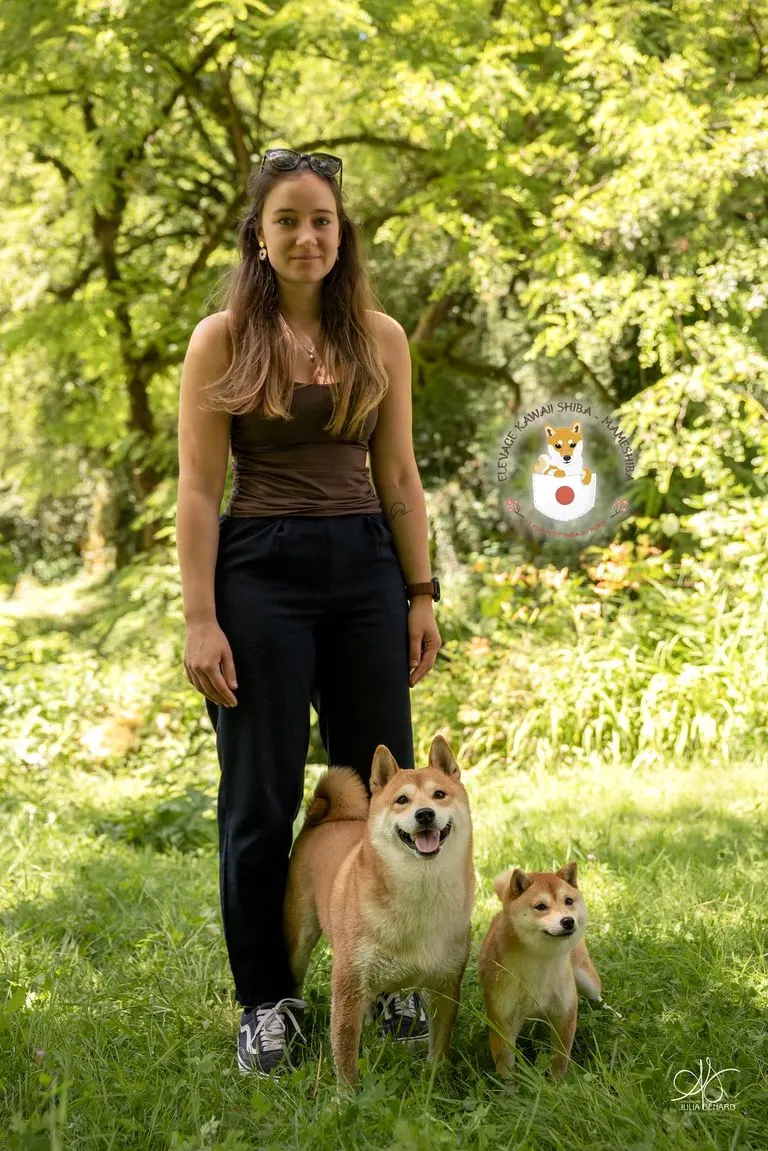
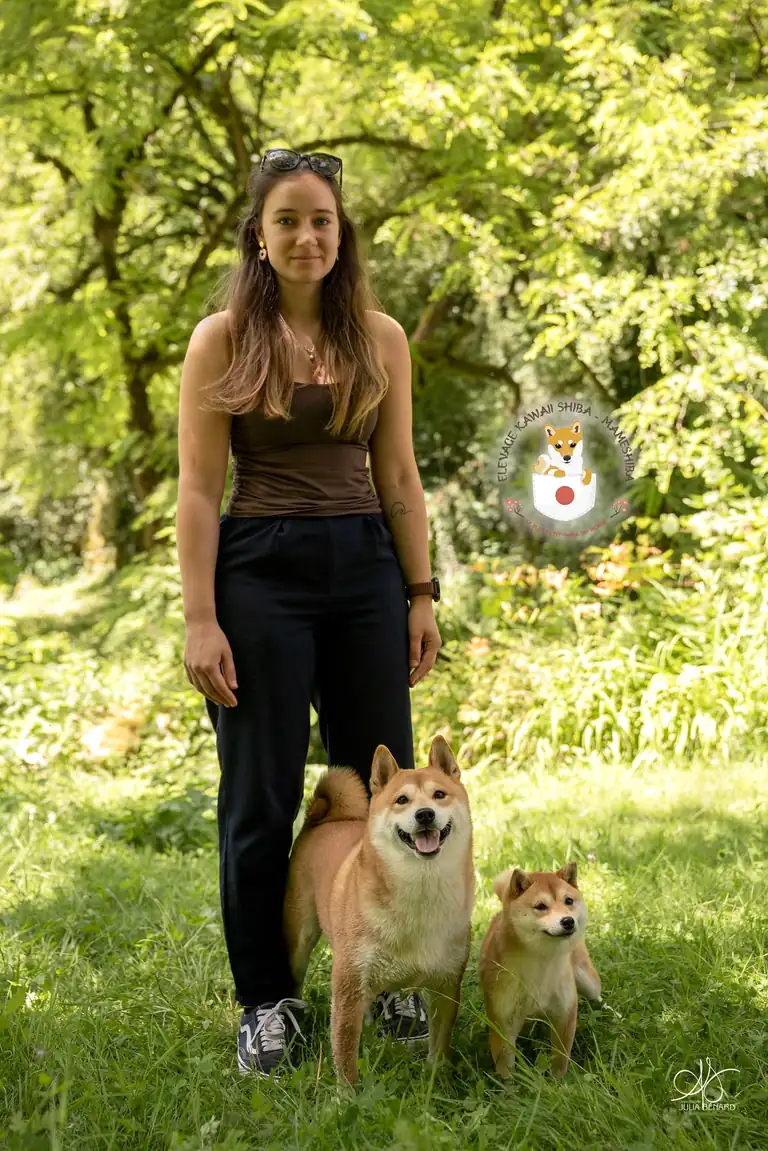
✨ fix image size

diff --git a/lib/generated-public-asset-paths.ts b/lib/generated-public-asset-paths.ts
@@ -24,6 +24,7 @@ export const publicAssetRoutes = [
     "/assets/authors/portrait-aurelie-and-pomsky.jpeg",
     "/assets/blog/Kaito-et-Yushi-en-appartement.jpg",
     "/home-founder-fallback.jpg",
+    "/icon-sm-40.webp",
     "/icon-sm.webp",
     "/locaux.webp",
     "/logo-kawaii-mame-shiba.png",
@@ -103,7 +104,19 @@ export const publicAssetRoutes = [
     "/pages/homePage/mame-shiba-decor-champs-de-lavande.jpg",
     "/pages/homePage/mame-shiba-for-modern-life.jpeg",
     "/pages/homePage/mame-shiba-good-caractere.jpg",
+    "/pages/homePage/mame-shiba-in-a-sakura-tree/jpeg/mame-shiba-in-a-sakura-tree-desktop.jpeg",
+    "/pages/homePage/mame-shiba-in-a-sakura-tree/jpeg/mame-shiba-in-a-sakura-tree-mobile.jpeg",
+    "/pages/homePage/mame-shiba-in-a-sakura-tree/jpeg/mame-shiba-in-a-sakura-tree-tablet.jpeg",
+    "/pages/homePage/mame-shiba-in-a-sakura-tree/webp/mame-shiba-in-a-sakura-tree-desktop.webp",
+    "/pages/homePage/mame-shiba-in-a-sakura-tree/webp/mame-shiba-in-a-sakura-tree-mobile.webp",
+    "/pages/homePage/mame-shiba-in-a-sakura-tree/webp/mame-shiba-in-a-sakura-tree-tablet.webp",
     "/pages/homePage/mame-shiba-puppy-blanc-white.jpeg",
+    "/pages/homePage/mame-shiba-puppy-blanc-white/jpeg/mame-shiba-puppy-blanc-white-desktop.jpeg",
+    "/pages/homePage/mame-shiba-puppy-blanc-white/jpeg/mame-shiba-puppy-blanc-white-mobile.jpeg",
+    "/pages/homePage/mame-shiba-puppy-blanc-white/jpeg/mame-shiba-puppy-blanc-white-tablet.jpeg",
+    "/pages/homePage/mame-shiba-puppy-blanc-white/webp/mame-shiba-puppy-blanc-white-desktop.webp",
+    "/pages/homePage/mame-shiba-puppy-blanc-white/webp/mame-shiba-puppy-blanc-white-mobile.webp",
+    "/pages/homePage/mame-shiba-puppy-blanc-white/webp/mame-shiba-puppy-blanc-white-tablet.webp",
     "/pages/homePage/mameshiba-cabre-sur-deux-patte.jpg",
     "/pages/homePage/mameshiba-urbain.jpg",
     "/pages/homePage/mameshiba-vie-moderne.jpg",

diff --git a/app/page.tsx b/app/page.tsx
@@ -210,13 +210,14 @@ export default function HomePage() {
 
                 <div className="mx-auto max-w-6xl overflow-hidden rounded-xl border border-[#57331f]/10 bg-white/70 shadow-[0_24px_90px_rgba(95,54,31,0.16)] backdrop-blur-sm md:rounded-4xl">
                   <div className="relative aspect-4/3 sm:aspect-16/11 md:aspect-16/8 lg:aspect-16/7">
-                    <Image
-                      src="/mame-shiba-in-a-sakura-tree.jpg"
+                    <ResponsivePicture
+                      asset={responsiveImages.mameShibaInSakuraTree}
                       alt="Mameshiba dans un décor inspiré du Japon"
-                      fill
-                      className="object-cover object-center"
+                      loading="eager"
+                      fetchPriority="high"
+                      className="absolute inset-0 h-full w-full"
+                      imageClassName="h-full w-full object-cover object-center"
                       sizes="(min-width: 1280px) 960px, (min-width: 1024px) 80vw, (min-width: 768px) calc(100vw - 80px), calc(100vw - 32px)"
-                      quality={70}
                     />
                     <div className="absolute inset-0 bg-linear-to-t from-[#6b401f]/35 via-transparent to-transparent" aria-hidden="true" />
                   </div>

diff --git a/components/content/home/shiba/shibaBenefits.ts b/components/content/home/shiba/shibaBenefits.ts
@@ -1,4 +1,3 @@
-import nihonMame from "@/public/pages/homePage/mame-shiba-puppy-blanc-white.jpeg";
 import primitifDog from "@/public/pages/homePage/mame-shiba-decor-champs-de-lavande.jpg";
 import shibaExpressive from "@/public/pages/homePage/mame-shiba-courant-dans-herbe.jpg";
 import shibaPolyvalent from "@/public/pages/homePage/mame-shiba-for-modern-life.jpeg";
@@ -22,7 +21,7 @@ export const shibaBenefits: BenefitCard[] = [
     {
         title: "Un nom japonais plein de sens",
         text: "« Mame » signifie haricot et « Shiba » signifie chien. Au Japon, cette expression évoque un petit chien adorable, à la fois compact et plein de caractère.",
-        image: nihonMame,
+        image: responsiveImages.mameShibaPuppyBlancWhite,
         alt: "Deux chiots Mameshiba blottis l'un contre l'autre"
     },
     {

diff --git a/lib/responsive-images.ts b/lib/responsive-images.ts
@@ -46,6 +46,18 @@ export const responsiveImages = {
         1200,
         1799
     ),
+    mameShibaInSakuraTree: responsiveImageAsset(
+        "/pages/homePage/mame-shiba-in-a-sakura-tree",
+        "mame-shiba-in-a-sakura-tree",
+        1200,
+        800
+    ),
+    mameShibaPuppyBlancWhite: responsiveImageAsset(
+        "/pages/homePage/mame-shiba-puppy-blanc-white",
+        "mame-shiba-puppy-blanc-white",
+        1200,
+        787
+    ),
     shibaVsMameshiba: responsiveImageAsset(
         "/pages/homePage/shiba-vs-mameshiba",
         "shiba-vs-mameshiba",

diff --git a/components/navigation.tsx b/components/navigation.tsx
@@ -18,7 +18,7 @@ export function Navigation() {
                 <Link href="/" className="flex items-center space-x-2 focus-visible:outline-2 focus-visible:outline-offset-2 focus-visible:outline-primary rounded">
                     <div className="h-10 w-10 relative">
                         <Image
-                            src="/icon-sm.webp"
+                            src="/icon-sm-40.webp"
                             alt="Logo Kawaii Shiba - élevage de Shiba"
                             fill
                             sizes="40px"

diff --git a/components/footer.tsx b/components/footer.tsx
@@ -12,7 +12,7 @@ export function Footer() {
                         <div className="flex items-center space-x-2">
                             <div className="h-10 w-10 relative">
                                 <Image
-                                    src="/icon-sm.webp"
+                                    src="/icon-sm-40.webp"
                                     alt="Logo Kawaii Shiba, élevage de Mameshiba"
                                     fill
                                     sizes="40px"
